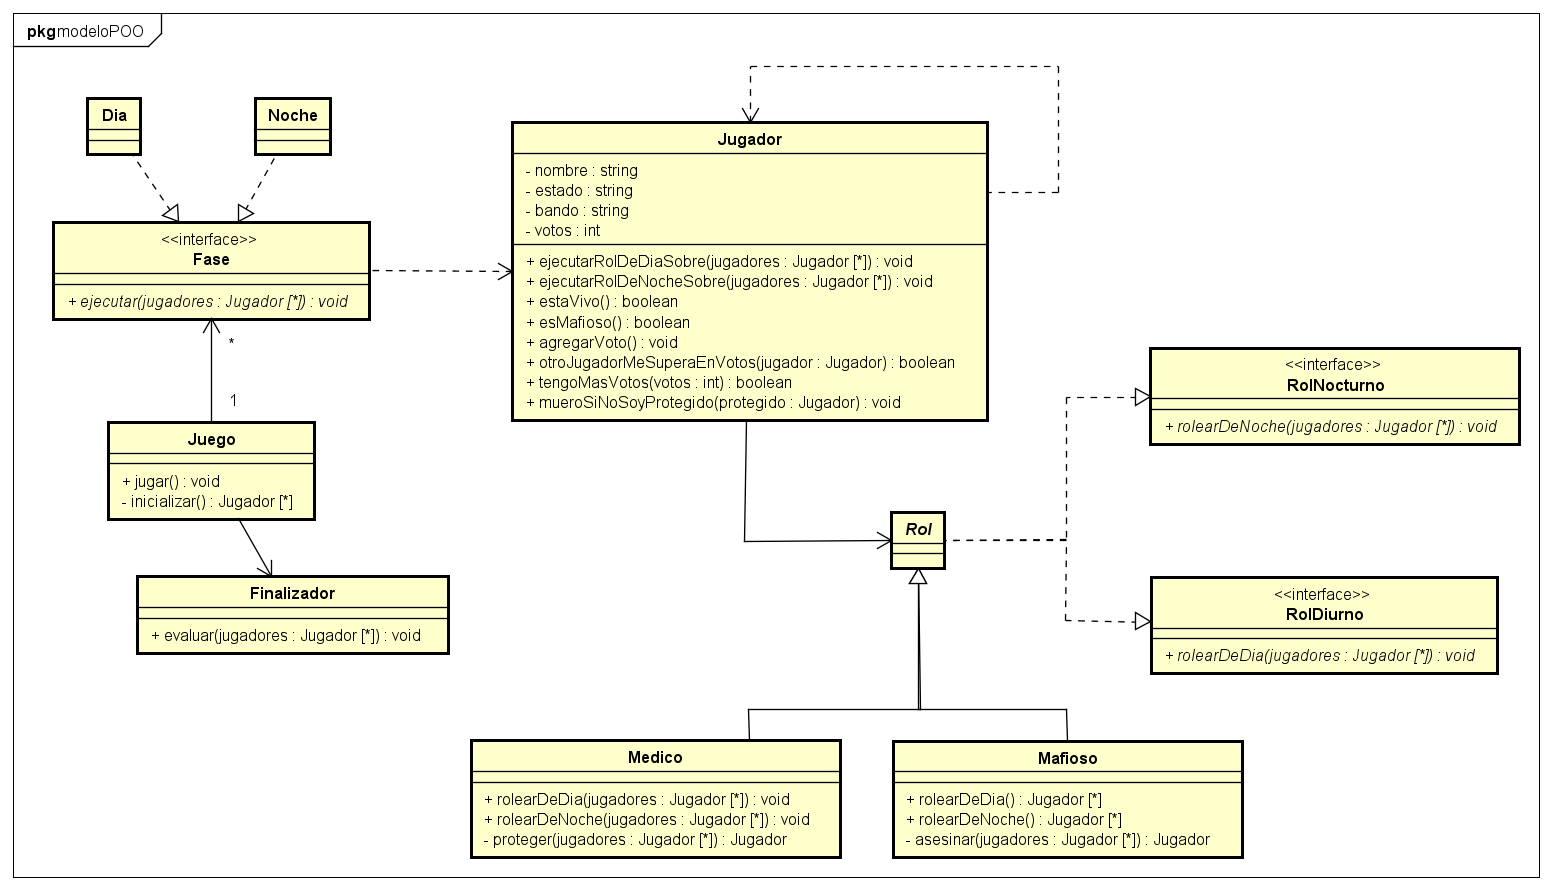
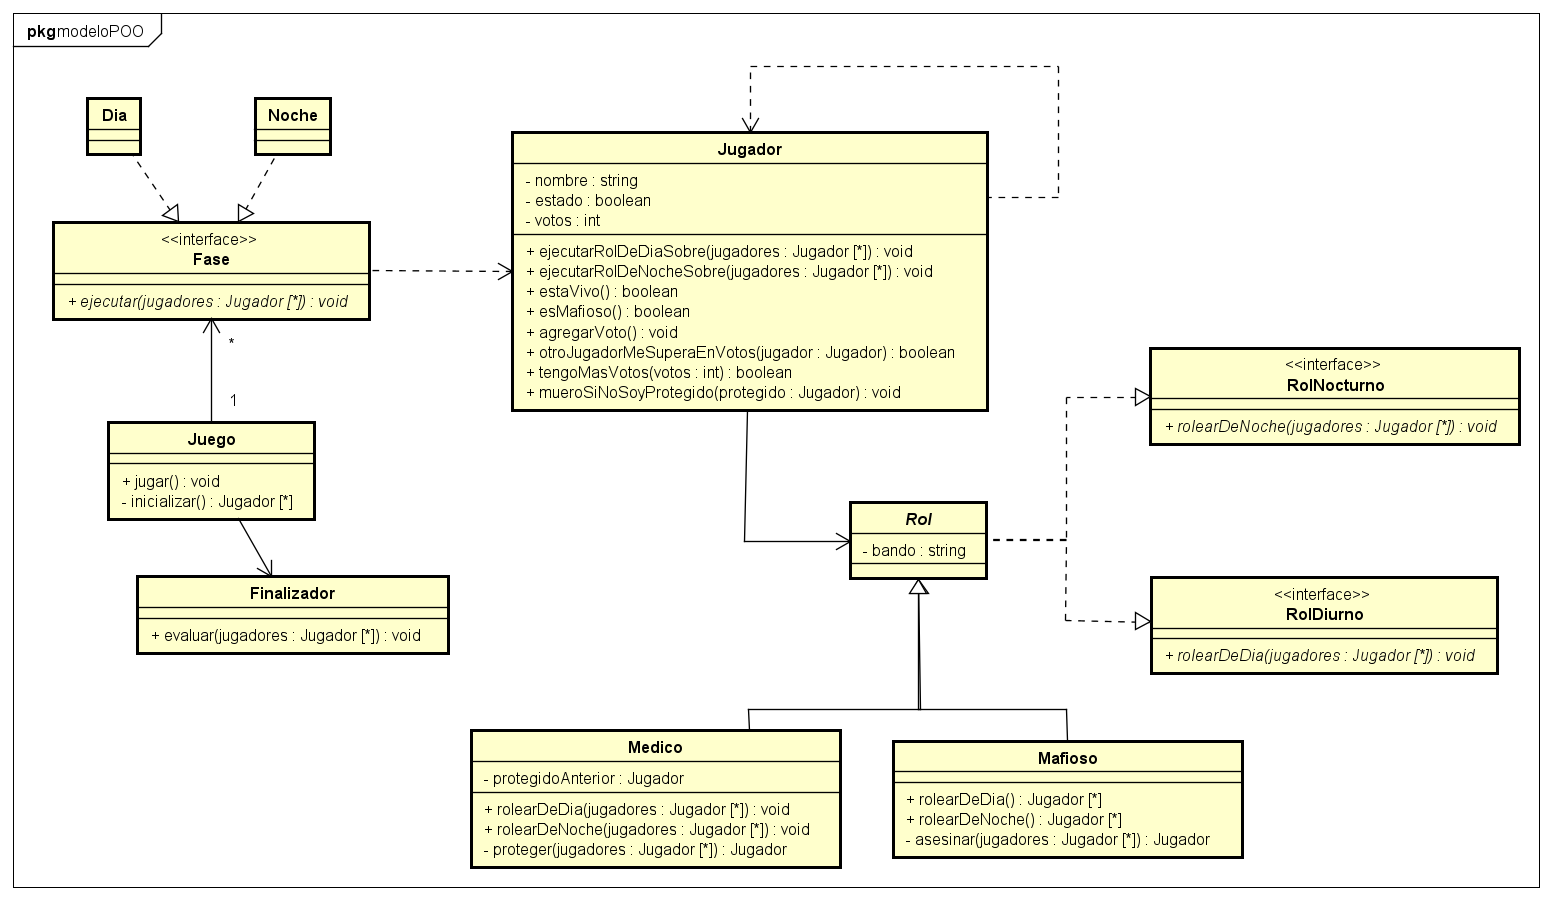
refactorizando

diff --git a/src/main/java/edu/fiuba/algo3/modelo/Jugador.java b/src/main/java/edu/fiuba/algo3/modelo/Jugador.java
@@ -4,7 +4,7 @@ import java.util.List;
 
 public class Jugador {
     private String nombre;
-    private String estado = "vivo";
+    private boolean vivo = true;
     private String bando;
     private Integer votos = 0;
     private CartaRol rol;
@@ -20,16 +20,22 @@ public class Jugador {
     }
 
     public void ejecutarRolDeDiaSobre(List<Jugador> jugadores){
+        if (!vivo) {
+            throw new JugadorMuertoException();
+        } 
         rol.rolearDeDia(jugadores);
     }
 
     public void ejecutarRolDeNocheSobre(List<Jugador> jugadores){
+        if (!vivo) {
+            throw new JugadorMuertoException();
+        }
         rol.rolearDeNoche(jugadores);
     }
 
     public void mueroSiNoSoyProtegido(Jugador protegido){
         if (this != protegido) {
-            estado = "muerto";        
+            vivo = false;        
         }
     }
 
@@ -50,6 +56,6 @@ public class Jugador {
     }
 
     public boolean estaVivo(){
-        return estado.equals("vivo");
+        return vivo;
     }
 }

diff --git a/src/main/java/edu/fiuba/algo3/modelo/JugadorMuertoException.java b/src/main/java/edu/fiuba/algo3/modelo/JugadorMuertoException.java
@@ -1,0 +1,5 @@
+package edu.fiuba.algo3.modelo;
+
+public class JugadorMuertoException extends RuntimeException {
+    
+}